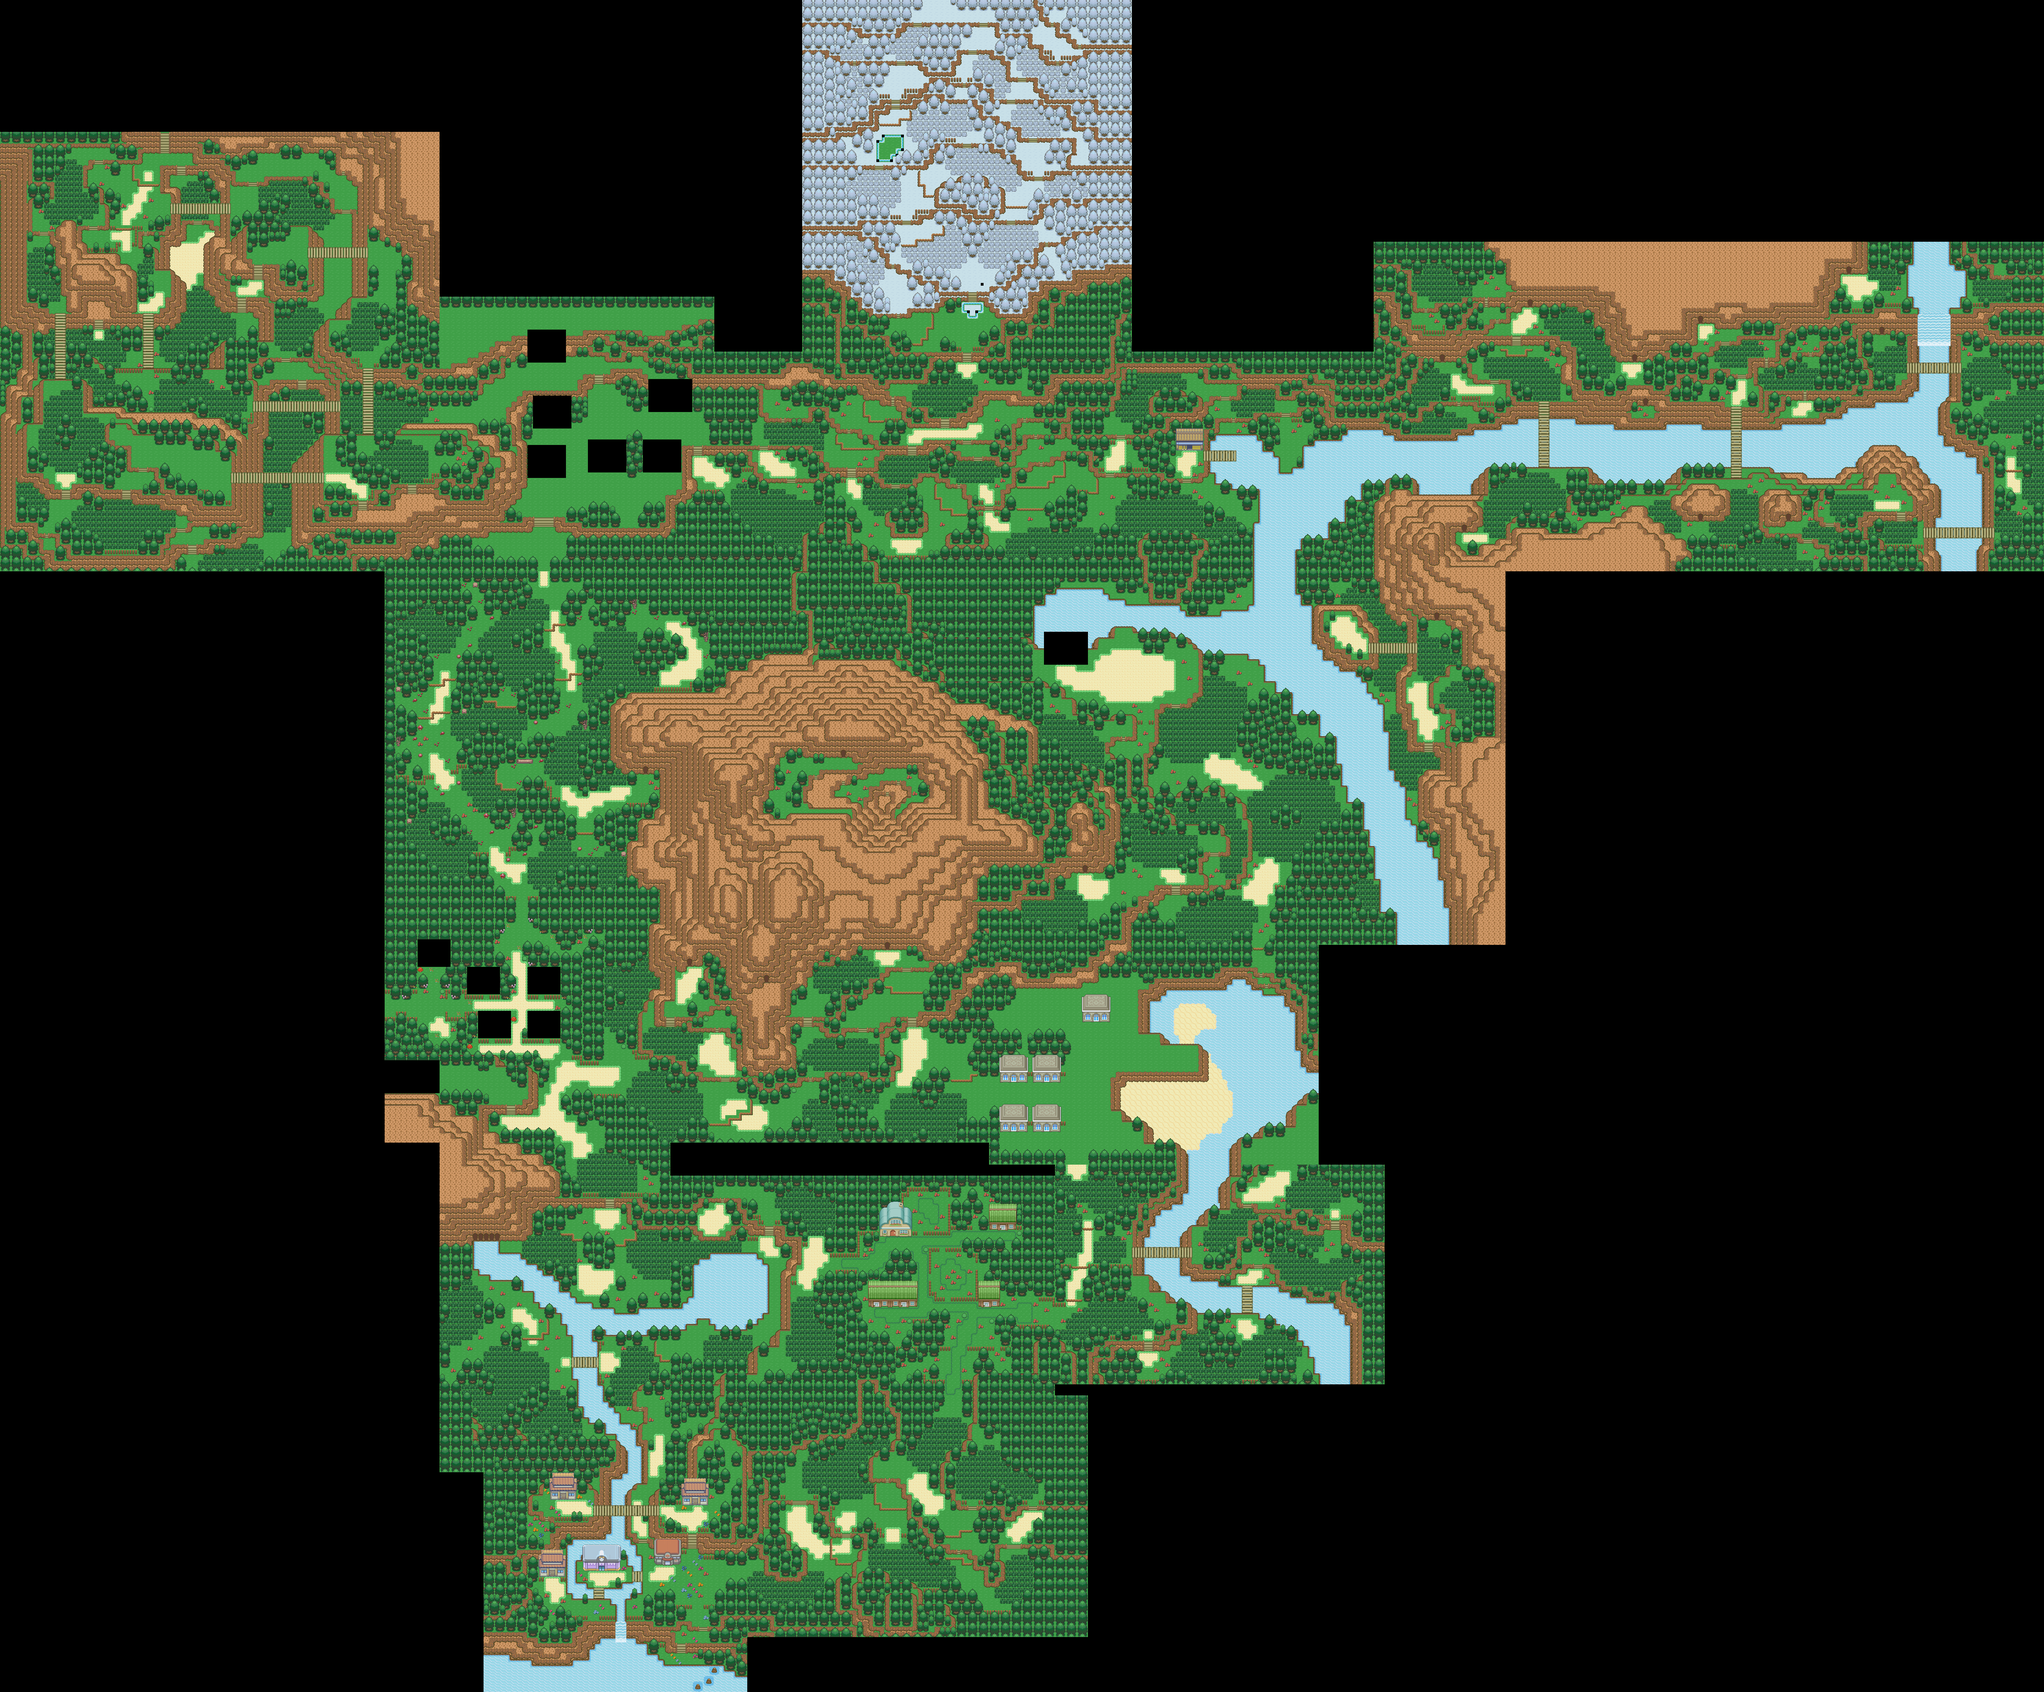
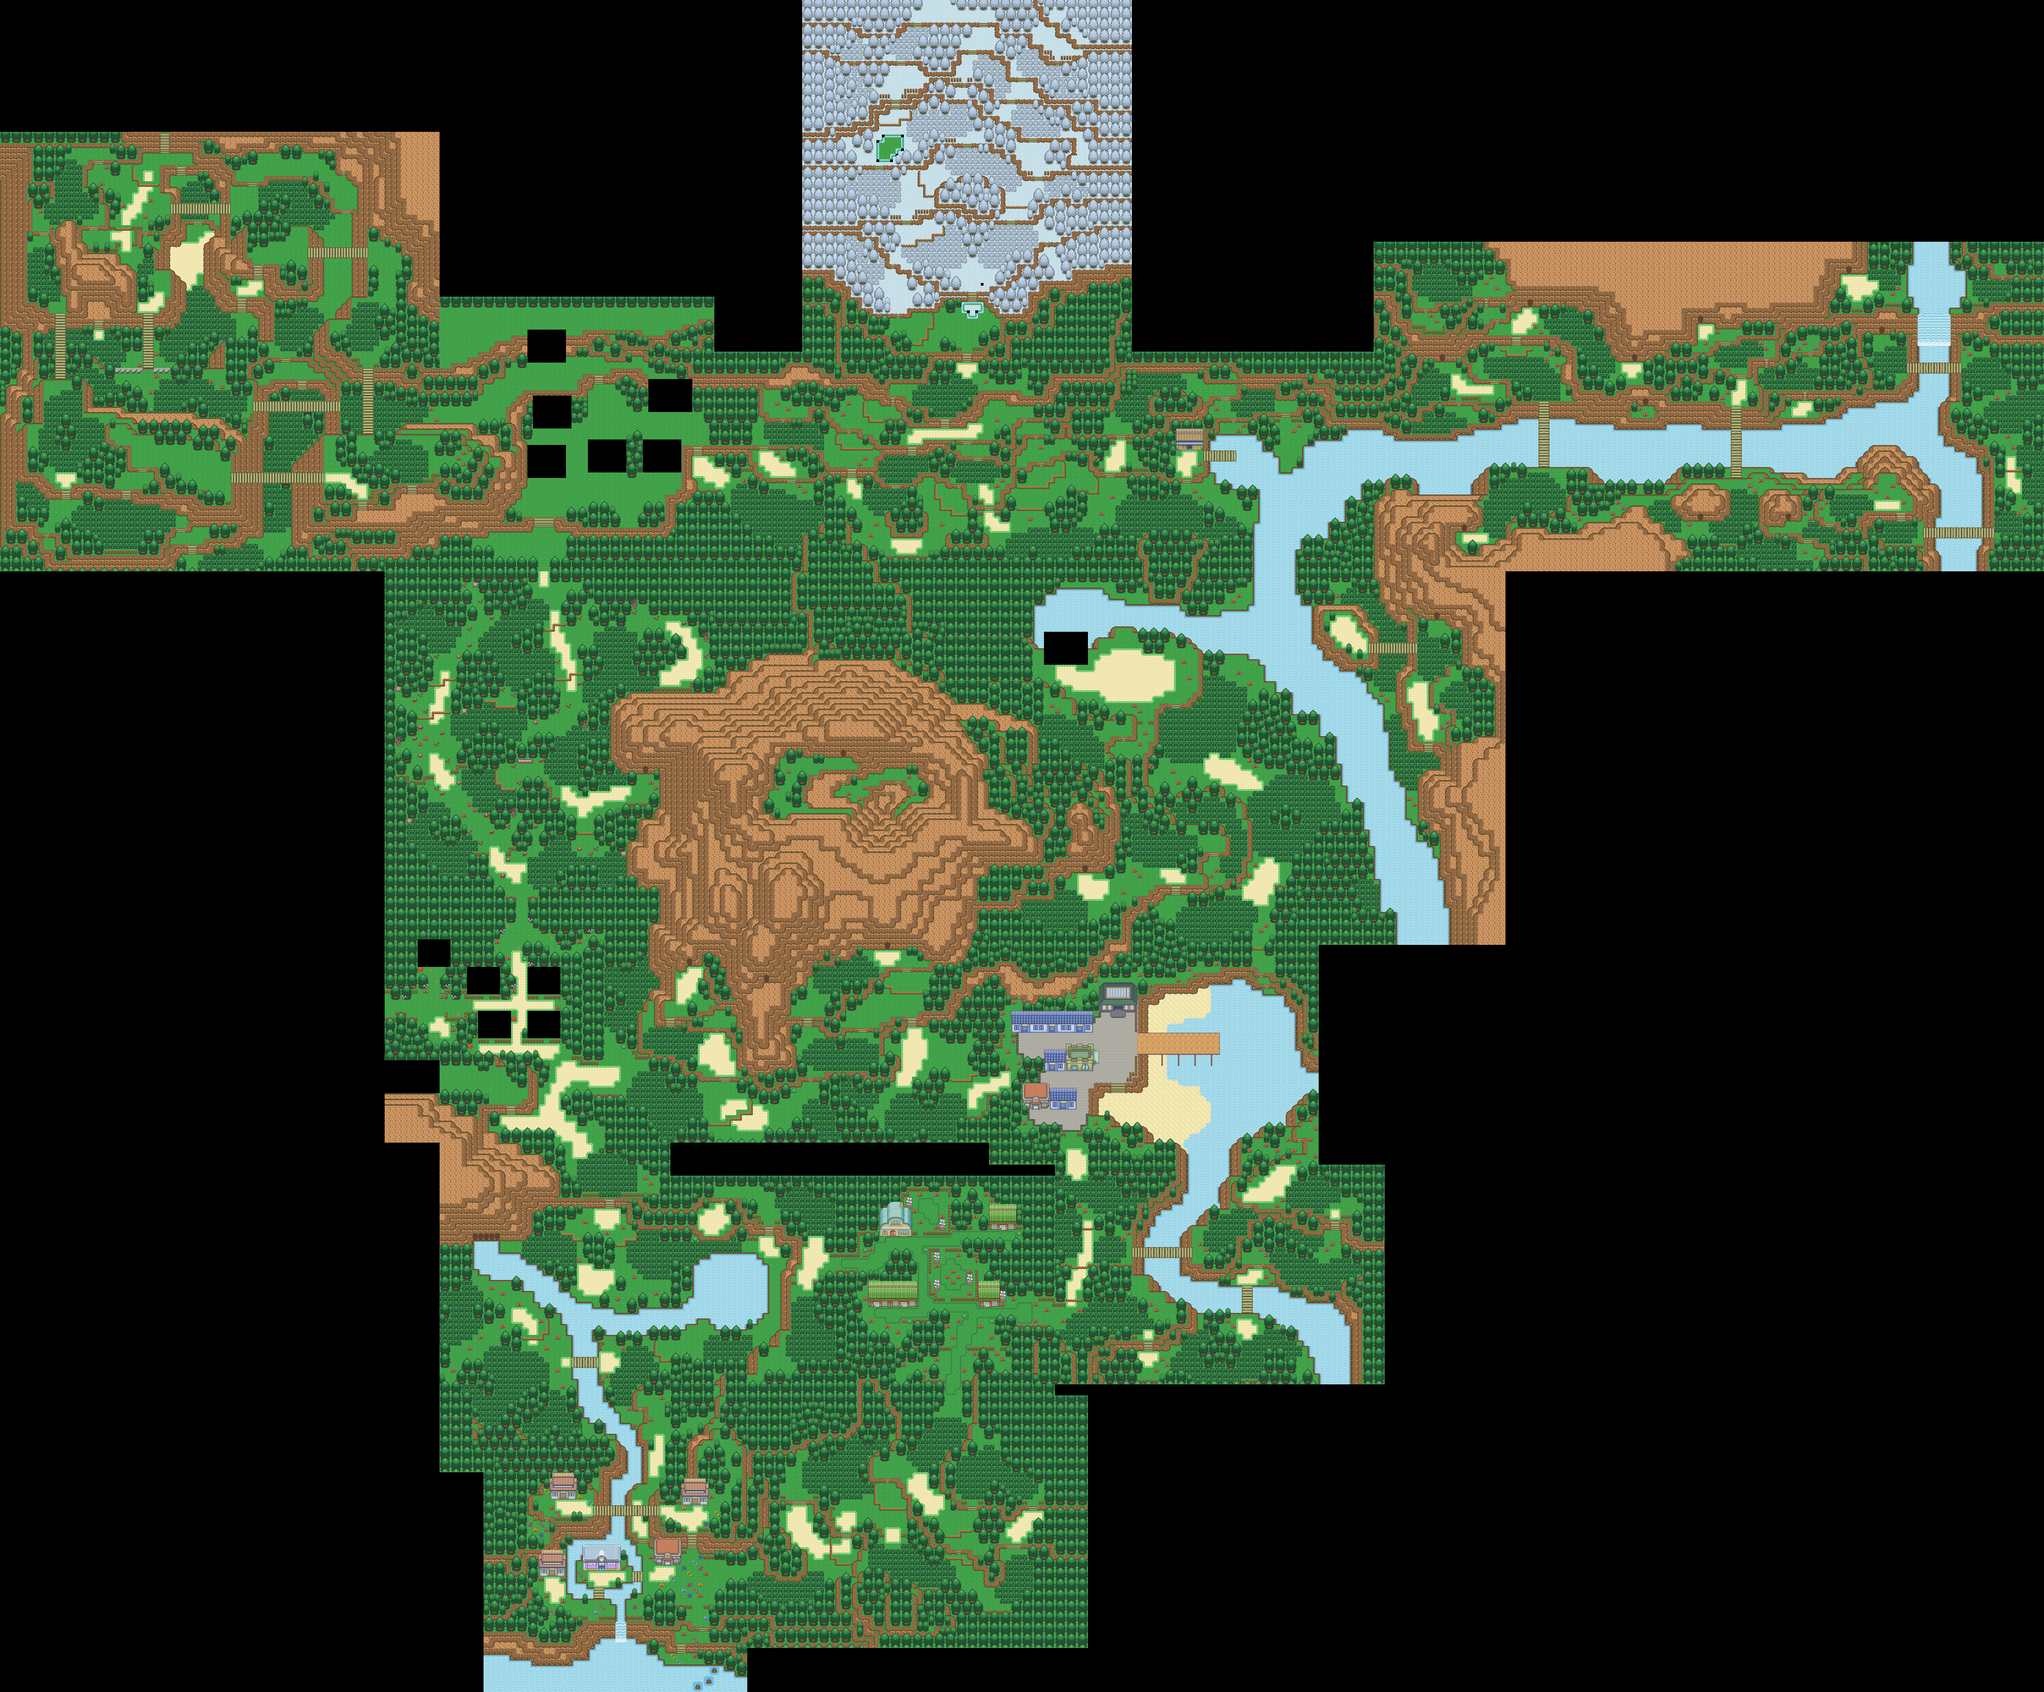
prototype venarus cove

Changed region(s): [[0.4688, 0.5312, 0.6562, 0.6875], [0.375, 0.9688, 0.5312, 1.0]]

diff --git a/src/tileset_anims.c b/src/tileset_anims.c
@@ -57,7 +57,7 @@ static void QueueAnimTiles_Rustboro_WindyWater(u16, u8);
 static void QueueAnimTiles_Rustboro_Fountain(u16);
 static void QueueAnimTiles_Dewford_Flag(u16);
 static void QueueAnimTiles_Slateport_Balloons(u16);
-static void QueueAnimTiles_Mauville_Flowers(u16, u8);
+// static void QueueAnimTiles_Mauville_Flowers(u16, u8);
 static void QueueAnimTiles_BikeShop_BlinkingLights(u16);
 static void QueueAnimTiles_BattlePyramid_Torch(u16);
 static void QueueAnimTiles_BattlePyramid_StatueShadow(u16);
@@ -253,83 +253,83 @@ const u16 *const gTilesetAnims_Pacifidlog_WaterCurrents[] = {
     gTilesetAnims_Pacifidlog_WaterCurrents_Frame7
 };
 
-const u16 gTilesetAnims_Mauville_Flower1_Frame0[] = INCBIN_U16("data/tilesets/secondary/mauville/anim/flower_1/0.4bpp");
-const u16 gTilesetAnims_Mauville_Flower1_Frame1[] = INCBIN_U16("data/tilesets/secondary/mauville/anim/flower_1/1.4bpp");
-const u16 gTilesetAnims_Mauville_Flower1_Frame2[] = INCBIN_U16("data/tilesets/secondary/mauville/anim/flower_1/2.4bpp");
-const u16 gTilesetAnims_Mauville_Flower1_Frame3[] = INCBIN_U16("data/tilesets/secondary/mauville/anim/flower_1/3.4bpp");
-const u16 gTilesetAnims_Mauville_Flower1_Frame4[] = INCBIN_U16("data/tilesets/secondary/mauville/anim/flower_1/4.4bpp");
-const u16 gTilesetAnims_Mauville_Flower2_Frame0[] = INCBIN_U16("data/tilesets/secondary/mauville/anim/flower_2/0.4bpp");
-const u16 gTilesetAnims_Mauville_Flower2_Frame1[] = INCBIN_U16("data/tilesets/secondary/mauville/anim/flower_2/1.4bpp");
-const u16 gTilesetAnims_Mauville_Flower2_Frame2[] = INCBIN_U16("data/tilesets/secondary/mauville/anim/flower_2/2.4bpp");
-const u16 gTilesetAnims_Mauville_Flower2_Frame3[] = INCBIN_U16("data/tilesets/secondary/mauville/anim/flower_2/3.4bpp");
-const u16 gTilesetAnims_Mauville_Flower2_Frame4[] = INCBIN_U16("data/tilesets/secondary/mauville/anim/flower_2/4.4bpp");
+// const u16 gTilesetAnims_Mauville_Flower1_Frame0[] = INCBIN_U16("data/tilesets/secondary/mauville/anim/flower_1/0.4bpp");
+// const u16 gTilesetAnims_Mauville_Flower1_Frame1[] = INCBIN_U16("data/tilesets/secondary/mauville/anim/flower_1/1.4bpp");
+// const u16 gTilesetAnims_Mauville_Flower1_Frame2[] = INCBIN_U16("data/tilesets/secondary/mauville/anim/flower_1/2.4bpp");
+// const u16 gTilesetAnims_Mauville_Flower1_Frame3[] = INCBIN_U16("data/tilesets/secondary/mauville/anim/flower_1/3.4bpp");
+// const u16 gTilesetAnims_Mauville_Flower1_Frame4[] = INCBIN_U16("data/tilesets/secondary/mauville/anim/flower_1/4.4bpp");
+// const u16 gTilesetAnims_Mauville_Flower2_Frame0[] = INCBIN_U16("data/tilesets/secondary/mauville/anim/flower_2/0.4bpp");
+// const u16 gTilesetAnims_Mauville_Flower2_Frame1[] = INCBIN_U16("data/tilesets/secondary/mauville/anim/flower_2/1.4bpp");
+// const u16 gTilesetAnims_Mauville_Flower2_Frame2[] = INCBIN_U16("data/tilesets/secondary/mauville/anim/flower_2/2.4bpp");
+// const u16 gTilesetAnims_Mauville_Flower2_Frame3[] = INCBIN_U16("data/tilesets/secondary/mauville/anim/flower_2/3.4bpp");
+// const u16 gTilesetAnims_Mauville_Flower2_Frame4[] = INCBIN_U16("data/tilesets/secondary/mauville/anim/flower_2/4.4bpp");
 const u16 tileset_anims_space_1[16] = {};
 
-u16 *const gTilesetAnims_Mauville_Flower1_VDests[] = {
-    (u16 *)(BG_VRAM + TILE_OFFSET_4BPP(NUM_TILES_IN_PRIMARY + 96)),
-    (u16 *)(BG_VRAM + TILE_OFFSET_4BPP(NUM_TILES_IN_PRIMARY + 100)),
-    (u16 *)(BG_VRAM + TILE_OFFSET_4BPP(NUM_TILES_IN_PRIMARY + 104)),
-    (u16 *)(BG_VRAM + TILE_OFFSET_4BPP(NUM_TILES_IN_PRIMARY + 108)),
-    (u16 *)(BG_VRAM + TILE_OFFSET_4BPP(NUM_TILES_IN_PRIMARY + 112)),
-    (u16 *)(BG_VRAM + TILE_OFFSET_4BPP(NUM_TILES_IN_PRIMARY + 116)),
-    (u16 *)(BG_VRAM + TILE_OFFSET_4BPP(NUM_TILES_IN_PRIMARY + 120)),
-    (u16 *)(BG_VRAM + TILE_OFFSET_4BPP(NUM_TILES_IN_PRIMARY + 124))
-};
+// u16 *const gTilesetAnims_Mauville_Flower1_VDests[] = {
+//     (u16 *)(BG_VRAM + TILE_OFFSET_4BPP(NUM_TILES_IN_PRIMARY + 96)),
+//     (u16 *)(BG_VRAM + TILE_OFFSET_4BPP(NUM_TILES_IN_PRIMARY + 100)),
+//     (u16 *)(BG_VRAM + TILE_OFFSET_4BPP(NUM_TILES_IN_PRIMARY + 104)),
+//     (u16 *)(BG_VRAM + TILE_OFFSET_4BPP(NUM_TILES_IN_PRIMARY + 108)),
+//     (u16 *)(BG_VRAM + TILE_OFFSET_4BPP(NUM_TILES_IN_PRIMARY + 112)),
+//     (u16 *)(BG_VRAM + TILE_OFFSET_4BPP(NUM_TILES_IN_PRIMARY + 116)),
+//     (u16 *)(BG_VRAM + TILE_OFFSET_4BPP(NUM_TILES_IN_PRIMARY + 120)),
+//     (u16 *)(BG_VRAM + TILE_OFFSET_4BPP(NUM_TILES_IN_PRIMARY + 124))
+// };
 
-u16 *const gTilesetAnims_Mauville_Flower2_VDests[] = {
-    (u16 *)(BG_VRAM + TILE_OFFSET_4BPP(NUM_TILES_IN_PRIMARY + 128)),
-    (u16 *)(BG_VRAM + TILE_OFFSET_4BPP(NUM_TILES_IN_PRIMARY + 132)),
-    (u16 *)(BG_VRAM + TILE_OFFSET_4BPP(NUM_TILES_IN_PRIMARY + 136)),
-    (u16 *)(BG_VRAM + TILE_OFFSET_4BPP(NUM_TILES_IN_PRIMARY + 140)),
-    (u16 *)(BG_VRAM + TILE_OFFSET_4BPP(NUM_TILES_IN_PRIMARY + 144)),
-    (u16 *)(BG_VRAM + TILE_OFFSET_4BPP(NUM_TILES_IN_PRIMARY + 148)),
-    (u16 *)(BG_VRAM + TILE_OFFSET_4BPP(NUM_TILES_IN_PRIMARY + 152)),
-    (u16 *)(BG_VRAM + TILE_OFFSET_4BPP(NUM_TILES_IN_PRIMARY + 156))
-};
+// u16 *const gTilesetAnims_Mauville_Flower2_VDests[] = {
+//     (u16 *)(BG_VRAM + TILE_OFFSET_4BPP(NUM_TILES_IN_PRIMARY + 128)),
+//     (u16 *)(BG_VRAM + TILE_OFFSET_4BPP(NUM_TILES_IN_PRIMARY + 132)),
+//     (u16 *)(BG_VRAM + TILE_OFFSET_4BPP(NUM_TILES_IN_PRIMARY + 136)),
+//     (u16 *)(BG_VRAM + TILE_OFFSET_4BPP(NUM_TILES_IN_PRIMARY + 140)),
+//     (u16 *)(BG_VRAM + TILE_OFFSET_4BPP(NUM_TILES_IN_PRIMARY + 144)),
+//     (u16 *)(BG_VRAM + TILE_OFFSET_4BPP(NUM_TILES_IN_PRIMARY + 148)),
+//     (u16 *)(BG_VRAM + TILE_OFFSET_4BPP(NUM_TILES_IN_PRIMARY + 152)),
+//     (u16 *)(BG_VRAM + TILE_OFFSET_4BPP(NUM_TILES_IN_PRIMARY + 156))
+// };
 
-const u16 *const gTilesetAnims_Mauville_Flower1[] = {
-    gTilesetAnims_Mauville_Flower1_Frame0,
-    gTilesetAnims_Mauville_Flower1_Frame0,
-    gTilesetAnims_Mauville_Flower1_Frame1,
-    gTilesetAnims_Mauville_Flower1_Frame2,
-    gTilesetAnims_Mauville_Flower1_Frame3,
-    gTilesetAnims_Mauville_Flower1_Frame3,
-    gTilesetAnims_Mauville_Flower1_Frame3,
-    gTilesetAnims_Mauville_Flower1_Frame3,
-    gTilesetAnims_Mauville_Flower1_Frame3,
-    gTilesetAnims_Mauville_Flower1_Frame3,
-    gTilesetAnims_Mauville_Flower1_Frame2,
-    gTilesetAnims_Mauville_Flower1_Frame1
-};
+// const u16 *const gTilesetAnims_Mauville_Flower1[] = {
+//     gTilesetAnims_Mauville_Flower1_Frame0,
+//     gTilesetAnims_Mauville_Flower1_Frame0,
+//     gTilesetAnims_Mauville_Flower1_Frame1,
+//     gTilesetAnims_Mauville_Flower1_Frame2,
+//     gTilesetAnims_Mauville_Flower1_Frame3,
+//     gTilesetAnims_Mauville_Flower1_Frame3,
+//     gTilesetAnims_Mauville_Flower1_Frame3,
+//     gTilesetAnims_Mauville_Flower1_Frame3,
+//     gTilesetAnims_Mauville_Flower1_Frame3,
+//     gTilesetAnims_Mauville_Flower1_Frame3,
+//     gTilesetAnims_Mauville_Flower1_Frame2,
+//     gTilesetAnims_Mauville_Flower1_Frame1
+// };
 
-const u16 *const gTilesetAnims_Mauville_Flower2[] = {
-    gTilesetAnims_Mauville_Flower2_Frame0,
-    gTilesetAnims_Mauville_Flower2_Frame0,
-    gTilesetAnims_Mauville_Flower2_Frame1,
-    gTilesetAnims_Mauville_Flower2_Frame2,
-    gTilesetAnims_Mauville_Flower2_Frame3,
-    gTilesetAnims_Mauville_Flower2_Frame3,
-    gTilesetAnims_Mauville_Flower2_Frame3,
-    gTilesetAnims_Mauville_Flower2_Frame3,
-    gTilesetAnims_Mauville_Flower2_Frame3,
-    gTilesetAnims_Mauville_Flower2_Frame3,
-    gTilesetAnims_Mauville_Flower2_Frame2,
-    gTilesetAnims_Mauville_Flower2_Frame1
-};
+// const u16 *const gTilesetAnims_Mauville_Flower2[] = {
+//     gTilesetAnims_Mauville_Flower2_Frame0,
+//     gTilesetAnims_Mauville_Flower2_Frame0,
+//     gTilesetAnims_Mauville_Flower2_Frame1,
+//     gTilesetAnims_Mauville_Flower2_Frame2,
+//     gTilesetAnims_Mauville_Flower2_Frame3,
+//     gTilesetAnims_Mauville_Flower2_Frame3,
+//     gTilesetAnims_Mauville_Flower2_Frame3,
+//     gTilesetAnims_Mauville_Flower2_Frame3,
+//     gTilesetAnims_Mauville_Flower2_Frame3,
+//     gTilesetAnims_Mauville_Flower2_Frame3,
+//     gTilesetAnims_Mauville_Flower2_Frame2,
+//     gTilesetAnims_Mauville_Flower2_Frame1
+// };
 
-const u16 *const gTilesetAnims_Mauville_Flower1_B[] = {
-    gTilesetAnims_Mauville_Flower1_Frame0,
-    gTilesetAnims_Mauville_Flower1_Frame0,
-    gTilesetAnims_Mauville_Flower1_Frame4,
-    gTilesetAnims_Mauville_Flower1_Frame4
-};
+// const u16 *const gTilesetAnims_Mauville_Flower1_B[] = {
+//     gTilesetAnims_Mauville_Flower1_Frame0,
+//     gTilesetAnims_Mauville_Flower1_Frame0,
+//     gTilesetAnims_Mauville_Flower1_Frame4,
+//     gTilesetAnims_Mauville_Flower1_Frame4
+// };
 
-const u16 *const gTilesetAnims_Mauville_Flower2_B[] = {
-    gTilesetAnims_Mauville_Flower2_Frame0,
-    gTilesetAnims_Mauville_Flower2_Frame0,
-    gTilesetAnims_Mauville_Flower2_Frame4,
-    gTilesetAnims_Mauville_Flower2_Frame4
-};
+// const u16 *const gTilesetAnims_Mauville_Flower2_B[] = {
+//     gTilesetAnims_Mauville_Flower2_Frame0,
+//     gTilesetAnims_Mauville_Flower2_Frame0,
+//     gTilesetAnims_Mauville_Flower2_Frame4,
+//     gTilesetAnims_Mauville_Flower2_Frame4
+// };
 
 const u16 gTilesetAnims_Rustboro_WindyWater_Frame0[] = INCBIN_U16("data/tilesets/secondary/rustboro/anim/windy_water/0.4bpp");
 const u16 gTilesetAnims_Rustboro_WindyWater_Frame1[] = INCBIN_U16("data/tilesets/secondary/rustboro/anim/windy_water/1.4bpp");
@@ -935,22 +935,22 @@ static void TilesetAnim_Slateport(u16 timer)
 
 static void TilesetAnim_Mauville(u16 timer)
 {
-    if (timer % 8 == 0)
-        QueueAnimTiles_Mauville_Flowers(timer >> 3, 0);
-    if (timer % 8 == 1)
-        QueueAnimTiles_Mauville_Flowers(timer >> 3, 1);
-    if (timer % 8 == 2)
-        QueueAnimTiles_Mauville_Flowers(timer >> 3, 2);
-    if (timer % 8 == 3)
-        QueueAnimTiles_Mauville_Flowers(timer >> 3, 3);
-    if (timer % 8 == 4)
-        QueueAnimTiles_Mauville_Flowers(timer >> 3, 4);
-    if (timer % 8 == 5)
-        QueueAnimTiles_Mauville_Flowers(timer >> 3, 5);
-    if (timer % 8 == 6)
-        QueueAnimTiles_Mauville_Flowers(timer >> 3, 6);
-    if (timer % 8 == 7)
-        QueueAnimTiles_Mauville_Flowers(timer >> 3, 7);
+    // if (timer % 8 == 0)
+    //     QueueAnimTiles_Mauville_Flowers(timer >> 3, 0);
+    // if (timer % 8 == 1)
+    //     QueueAnimTiles_Mauville_Flowers(timer >> 3, 1);
+    // if (timer % 8 == 2)
+    //     QueueAnimTiles_Mauville_Flowers(timer >> 3, 2);
+    // if (timer % 8 == 3)
+    //     QueueAnimTiles_Mauville_Flowers(timer >> 3, 3);
+    // if (timer % 8 == 4)
+    //     QueueAnimTiles_Mauville_Flowers(timer >> 3, 4);
+    // if (timer % 8 == 5)
+    //     QueueAnimTiles_Mauville_Flowers(timer >> 3, 5);
+    // if (timer % 8 == 6)
+    //     QueueAnimTiles_Mauville_Flowers(timer >> 3, 6);
+    // if (timer % 8 == 7)
+    //     QueueAnimTiles_Mauville_Flowers(timer >> 3, 7);
 }
 
 static void TilesetAnim_Lavaridge(u16 timer)
@@ -1064,22 +1064,22 @@ static void QueueAnimTiles_Pacifidlog_WaterCurrents(u8 timer)
     AppendTilesetAnimToBuffer(gTilesetAnims_Pacifidlog_WaterCurrents[i], (u16 *)(BG_VRAM + TILE_OFFSET_4BPP(NUM_TILES_IN_PRIMARY + 496)), 0x100);
 }
 
-static void QueueAnimTiles_Mauville_Flowers(u16 timer_div, u8 timer_mod)
-{
-    timer_div -= timer_mod;
-    if (timer_div < 12) // almost certainly a typo
-    {
-        timer_div %= 12;
-        AppendTilesetAnimToBuffer(gTilesetAnims_Mauville_Flower1[timer_div], gTilesetAnims_Mauville_Flower1_VDests[timer_mod], 0x80);
-        AppendTilesetAnimToBuffer(gTilesetAnims_Mauville_Flower2[timer_div], gTilesetAnims_Mauville_Flower2_VDests[timer_mod], 0x80);
-    }
-    else
-    {
-        timer_div %= 4;
-        AppendTilesetAnimToBuffer(gTilesetAnims_Mauville_Flower1_B[timer_div], gTilesetAnims_Mauville_Flower1_VDests[timer_mod], 0x80);
-        AppendTilesetAnimToBuffer(gTilesetAnims_Mauville_Flower2_B[timer_div], gTilesetAnims_Mauville_Flower2_VDests[timer_mod], 0x80);
-    }
-}
+// static void QueueAnimTiles_Mauville_Flowers(u16 timer_div, u8 timer_mod)
+// {
+//     timer_div -= timer_mod;
+//     if (timer_div < 12) // almost certainly a typo
+//     {
+//         timer_div %= 12;
+//         AppendTilesetAnimToBuffer(gTilesetAnims_Mauville_Flower1[timer_div], gTilesetAnims_Mauville_Flower1_VDests[timer_mod], 0x80);
+//         AppendTilesetAnimToBuffer(gTilesetAnims_Mauville_Flower2[timer_div], gTilesetAnims_Mauville_Flower2_VDests[timer_mod], 0x80);
+//     }
+//     else
+//     {
+//         timer_div %= 4;
+//         AppendTilesetAnimToBuffer(gTilesetAnims_Mauville_Flower1_B[timer_div], gTilesetAnims_Mauville_Flower1_VDests[timer_mod], 0x80);
+//         AppendTilesetAnimToBuffer(gTilesetAnims_Mauville_Flower2_B[timer_div], gTilesetAnims_Mauville_Flower2_VDests[timer_mod], 0x80);
+//     }
+// }
 
 static void QueueAnimTiles_Rustboro_WindyWater(u16 timer_div, u8 timer_mod)
 {

diff --git a/src/data/heal_locations.h b/src/data/heal_locations.h
@@ -4,7 +4,7 @@ static const struct HealLocation sHealLocations[] =
     [HEAL_LOCATION_LITTLEROOT_TOWN_MAYS_HOUSE_2F - 1] = {MAP_GROUP(LITTLEROOT_TOWN_MAYS_HOUSE_2F), MAP_NUM(LITTLEROOT_TOWN_MAYS_HOUSE_2F), 4, 2},
     [HEAL_LOCATION_PETALBURG_CITY - 1] = {MAP_GROUP(PETALBURG_CITY), MAP_NUM(PETALBURG_CITY), 33, 17},
     [HEAL_LOCATION_SLATEPORT_CITY - 1] = {MAP_GROUP(SLATEPORT_CITY), MAP_NUM(SLATEPORT_CITY), 21, 17},
-    [HEAL_LOCATION_MAUVILLE_CITY - 1] = {MAP_GROUP(MAUVILLE_CITY), MAP_NUM(MAUVILLE_CITY), 17, 20},
+    [HEAL_LOCATION_MAUVILLE_CITY - 1] = {MAP_GROUP(MAUVILLE_CITY), MAP_NUM(MAUVILLE_CITY), 8, 30},
     [HEAL_LOCATION_RUSTBORO_CITY - 1] = {MAP_GROUP(RUSTBORO_CITY), MAP_NUM(RUSTBORO_CITY), 16, 39},
     [HEAL_LOCATION_FORTREE_CITY - 1] = {MAP_GROUP(FORTREE_CITY), MAP_NUM(FORTREE_CITY), 5, 7},
     [HEAL_LOCATION_LILYCOVE_CITY - 1] = {MAP_GROUP(LILYCOVE_CITY), MAP_NUM(LILYCOVE_CITY), 22, 12},
